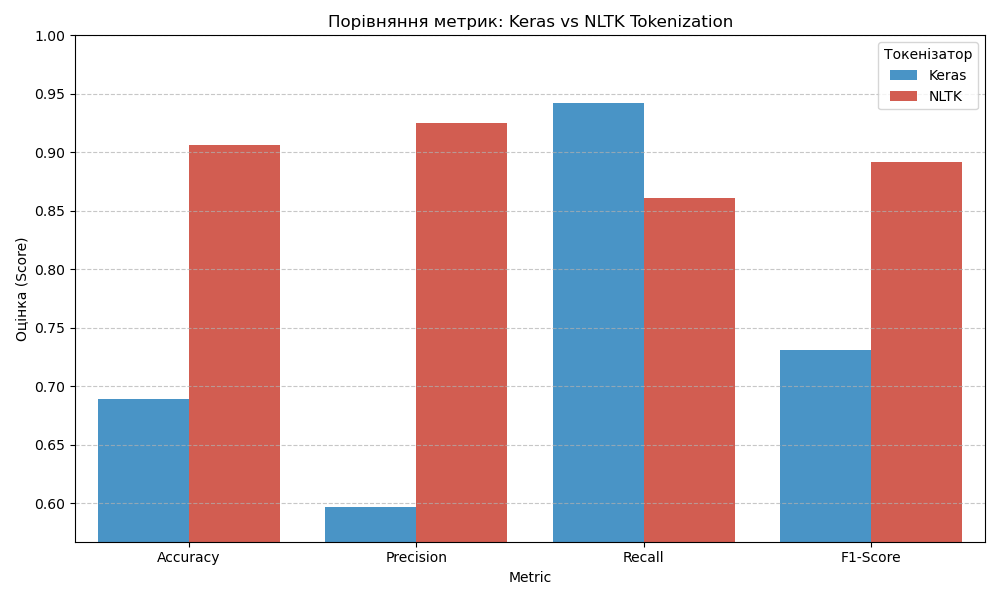
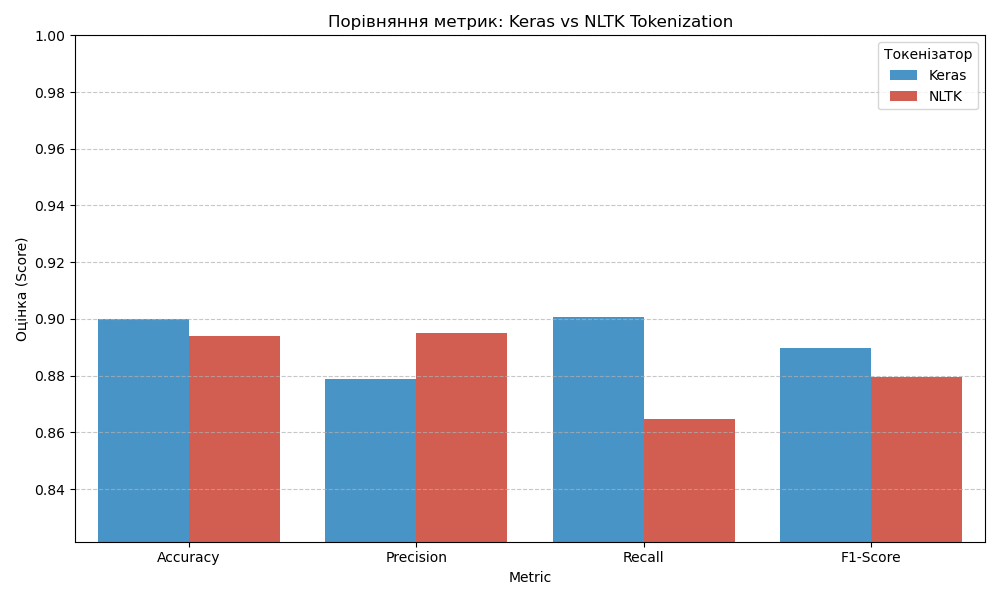
fix tokenizers comparison

diff --git a/tokenizers_comparison.py b/tokenizers_comparison.py
@@ -35,6 +35,7 @@ stop_words = set(stopwords.words('english'))
 def clean_text(text):
     text = str(text).lower()
     text = re.sub(r'\s+', ' ', text).strip()
+    text = ' '.join([word for word in text.split() if word not in stop_words])
     return text
 
 
